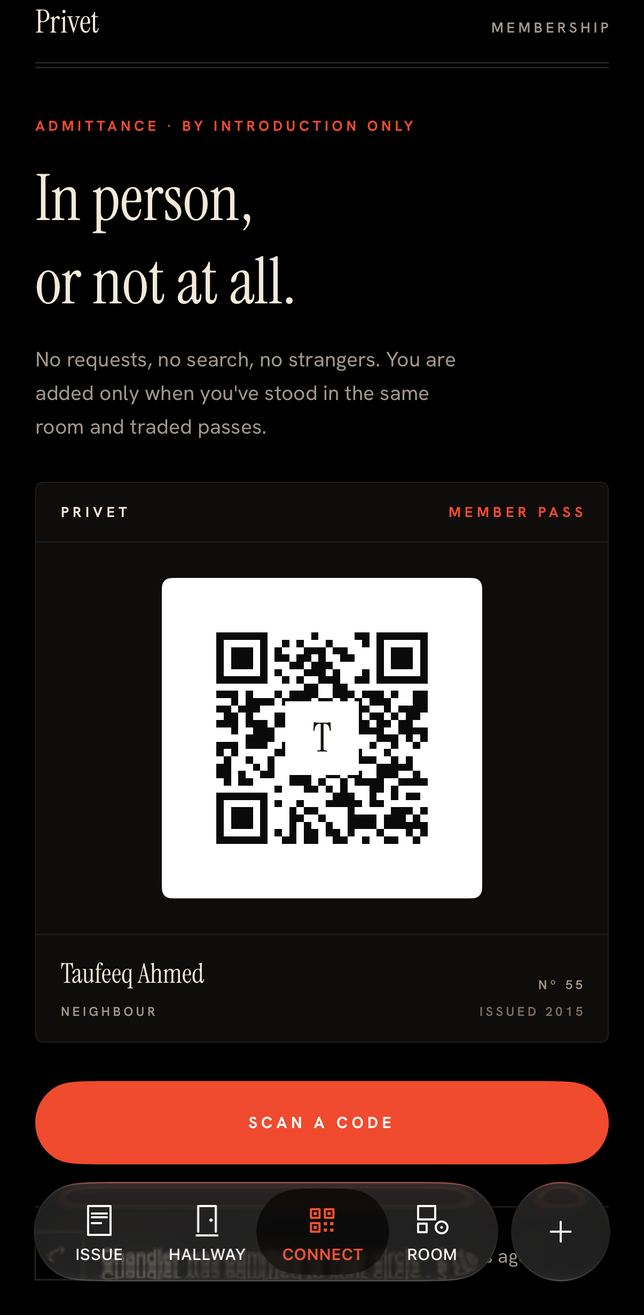
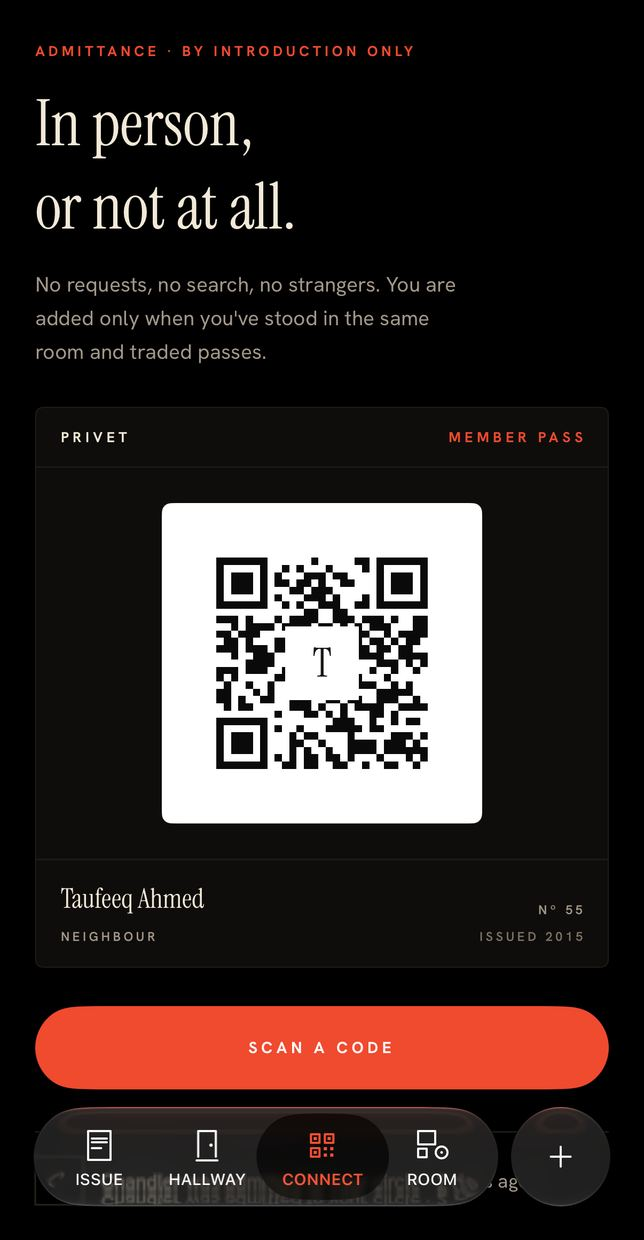
Crop the app masthead out, and shoot the wall dense
Two things from review.

Every screen carried the app's own masthead — Privet and the date over a
double rule — directly under the page's own headings, which read as the
name twice and a date nobody asked for. The crop moves from 160px to
300px, which takes the island, the masthead and the rule together and
starts each shot on the screen's own content. The corner radius comes
down with it: these are screen excerpts now, not devices.

The wall was shot at its composed spacing, so most of the frame was
plaster. It is now captured through PRIVET_TIGHTEN=0.95,0.40 about
(735,1815) with the camera at 0.37 on the band at y=2050 — chosen by
sweeping fifteen combinations and comparing them, because tightening and
zoom pull against each other and the first few attempts cancelled out.
The frame now holds the range the wall is for: a book spine, a taped
polaroid, a cinema poster, a framed print, a ticket stub, the
house-rules letter, a boarding pass, the clock, the pinned quote, a
medal, a taped photograph, and the film and book shelves.

diff --git a/src/app/globals.css b/src/app/globals.css
@@ -216,7 +216,7 @@ body {
   display: block;
   width: 100%;
   height: auto;
-  border-radius: 30px;
+  border-radius: 14px;
   box-shadow:
     0 44px 90px -24px rgba(0, 0, 0, 0.42),
     0 0 0 1px color-mix(in srgb, var(--ink) 10%, transparent);

diff --git a/src/components/shot.tsx b/src/components/shot.tsx
@@ -14,7 +14,7 @@ export function Shot({
 }) {
   const common = {
     width: 644,
-    height: 1315,
+    height: 1240,
     draggable: false,
     loading: priority ? ("eager" as const) : ("lazy" as const),
   };
